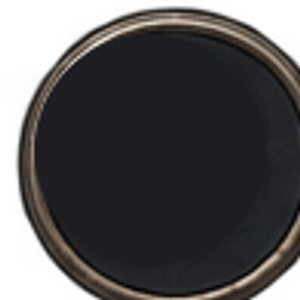
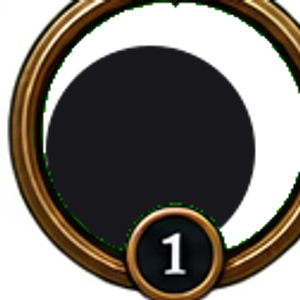
Rebuild the entire HUD from the new chroma-keyed art sheet
The new HUD.png marks every fill/content area with a flat chroma-key
green instead of leaving it to guesswork — a script scans for that
exact color and punches a pixel-perfect transparent hole there, no
manual pixel measurement needed. Replaced every asset built the old,
error-prone way: HP/resource/XP bar frame (now three bars sharing
one image, plus a portrait ring and level badge), minimap, joystick
(the knob hole is now centered in its own crop instead of relying on
CSS 50/50 landing on an off-center hole), and ability rings/action
button (composited over a solid dark disc, matching the reference
art's filled-circle look).

The generic floating-panel frame (loot/inventory/dialogue/depot) now
uses real CSS border-image 9-slice instead of a stretched whole-image
background — the ornate corners stay a fixed size and only the edges
stretch, so tall panels (a long inventory list) no longer distort the
frame. Moved the panel-close hit target to match; it had drifted
outside the panel's overflow:hidden bounds and become unclickable.

Claude-Session: https://claude.ai/code/session_01PJ29vBwP1dGG8R2wiEbnTZ

diff --git a/src/style.css b/src/style.css
@@ -66,7 +66,7 @@ canvas {
 .hp-resource-frame {
   position: relative;
   width: min(300px, 72vw);
-  aspect-ratio: 345 / 112;
+  aspect-ratio: 580 / 185;
   margin-top: 2px;
 }
 
@@ -88,24 +88,24 @@ canvas {
 }
 
 .frame-track.hp-track {
-  left: 1.74%;
-  top: 13.4%;
-  width: 93.3%;
-  height: 17.0%;
+  left: 38.6%;
+  top: 25.9%;
+  width: 56.9%;
+  height: 14.1%;
 }
 
 .frame-track.resource-track {
-  left: 1.74%;
-  top: 39.3%;
-  width: 93.3%;
-  height: 21.4%;
+  left: 38.6%;
+  top: 50.8%;
+  width: 56.9%;
+  height: 14.1%;
 }
 
 .frame-track.xp-track {
-  left: 1.74%;
-  top: 67.9%;
-  width: 93.3%;
-  height: 18.75%;
+  left: 38.6%;
+  top: 75.1%;
+  width: 56.9%;
+  height: 14.6%;
 }
 
 .frame-fill {
@@ -272,17 +272,17 @@ canvas {
   top: env(safe-area-inset-top, 0px);
   right: 0;
   margin: 10px 14px;
-  width: 145px;
-  height: 135px;
+  width: 173px;
+  height: 153px;
   pointer-events: auto;
 }
 
 #minimap-canvas {
   display: block;
   position: absolute;
-  left: 8px;
-  top: 22px;
-  width: 128px;
+  left: 31px;
+  top: 34px;
+  width: 123px;
   height: 96px;
   border-radius: 7px;
   background: #0a0a0a;
@@ -361,7 +361,13 @@ canvas {
   max-height: 70vh;
   display: flex;
   flex-direction: column;
-  background: url("/hud/panel-frame.png") center / 100% 100% no-repeat;
+  background: rgba(10, 10, 18, 0.94);
+  border-style: solid;
+  border-width: 26px;
+  border-image-source: url("/hud/panel-frame.png");
+  border-image-slice: 13% 13% 9% 7%;
+  border-image-width: 26px;
+  border-image-repeat: stretch;
   overflow: hidden;
   pointer-events: auto;
   color: #fff;
@@ -375,7 +381,7 @@ canvas {
   display: flex;
   align-items: center;
   justify-content: space-between;
-  padding: 16px 40px 12px 18px;
+  padding: 6px 30px 6px 4px;
   font-weight: 800;
   font-size: 14px;
   text-shadow: 0 1px 3px rgba(0, 0, 0, 0.7);
@@ -384,12 +390,13 @@ canvas {
 .panel-close {
   all: unset;
   position: absolute;
-  right: 6%;
-  top: 6%;
-  width: 15%;
-  aspect-ratio: 1;
+  right: 2px;
+  top: 2px;
+  width: 30px;
+  height: 30px;
   cursor: pointer;
   opacity: 0;
+  pointer-events: auto;
 }
 
 .panel-list {
